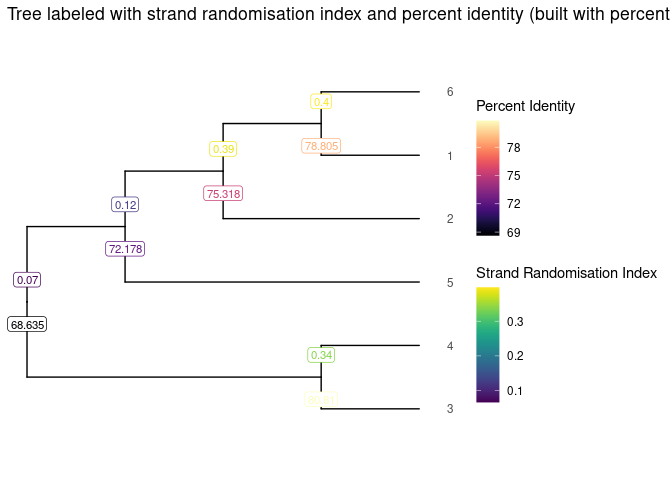
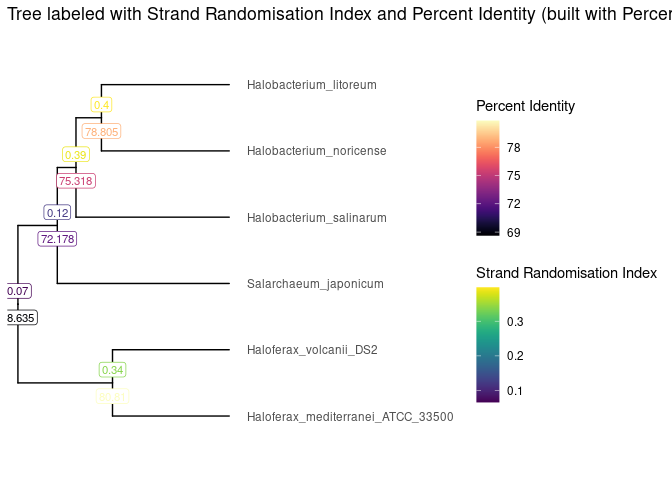
README updates

Changed region(s): [[0.0, 0.1562, 0.625, 0.7188], [0.0312, 0.7188, 0.6875, 0.875], [0.2188, 0.0, 1.0, 0.0625]]

diff --git a/README.md b/README.md
@@ -25,8 +25,7 @@ devtools::install_github("brennern/ScrambledTreeBuilder")
 After performing an All Vs. All genome comparison between dozens of
 species, you may have .yaml files as the output. In order to convert
 these files into a dataframe in R, you may use the `formatStats()`
-function. Extract your .yaml files from their respective directory and
-store the information under the variable `yamlFiles`.
+function. Extract your .yaml files from their respective directory and store the information under the variable `yamlFiles`.
 
 ``` r
 library(ScrambledTreeBuilder)
@@ -56,8 +55,8 @@ tibble and utilize the functions `makeValueTibble()`.
 ``` r
 HClust <- hclust(dist(treeMatrix), method = "complete")
 Tibble <- tidytree::as_tibble(tidytree::as.phylo(HClust))
-tibbleWithValue <- makeValueTibble(Tibble, valueMatrix)
-tibbleWithMultipleValues <- makeMultiValueTibble(Tibble, exDataFrame, colsToSelect = c("index_avg_strandRand", "percent_identity_global"))
+tibbleWithValue <- makeValueTibble(Tibble, valueMatrix, colname = "Strand_Randomisation_Index")
+tibbleWithMultipleValues <- makeValueTibble(tibbleWithValue, treeMatrix, colname = "Percent_Identity")
 ```
 
 Finally, to visualize your phylogenetic tree, you can utilize the
@@ -65,11 +64,11 @@ Finally, to visualize your phylogenetic tree, you can utilize the
 desired variable.
 
 ``` r
-SingleValueTree <- visualizeTree(tibbleWithValue, tibbleWithValue$value)
+SingleValueTree <- visualizeTree(tibbleWithValue, tibbleWithValue$Strand_Randomisation_Index)
 
-SingleValueTree + 
-  ggplot2::ggtitle(paste("Tree built with", valuesToBuildTheTree, "and labelled with", valuesToPlaceOnLabels)) + 
-  viridis::scale_color_viridis(name = valuesToPlaceOnLabels) +
+SingleValueTree +
+  ggplot2::ggtitle(paste("Tree built with Percent Identity and labelled with Strand Randomisation Index scores")) + 
+  viridis::scale_color_viridis(name = "Strand Randomisation Index") +
   ggtree::geom_hilight(node = 8, fill = "lightblue1", alpha = .2, type = "gradient", gradient.direction = 'tr') +
   ggtree::geom_hilight(node = 9, fill = "pink", alpha = .2, type = "gradient", gradient.direction = 'tr')
 ```
@@ -77,15 +76,15 @@ SingleValueTree +
 <img src="man/figures/README-unnamed-chunk-6-1.png" width="100%" />
 
 ``` r
-MultiValueTree <- visualizeTree(tibbleWithMultipleValues, tibbleWithMultipleValues$index_avg_strandRand, ynudge = 0.35)
+MultiValueTree <- visualizeTree(tibbleWithMultipleValues, tibbleWithMultipleValues$Strand_Randomisation_Index, ynudge = 0.2)
 #> Scale for y is already present.
 #> Adding another scale for y, which will replace the existing scale.
 
 MultiValueTree +
-  ggplot2::ggtitle("Tree labeled with strand randomisation index and percent identity (built with percent identity)") +
+  ggplot2::ggtitle("Tree labeled with Strand Randomisation Index and Percent Identity (built with Percent Identity)") +
   viridis::scale_color_viridis(name = "Strand Randomisation Index") +
   ggnewscale::new_scale_colour() +
-  ggtree::geom_label(ggtree::aes(label=round(percent_identity_global, digits = 3), color = percent_identity_global), label.size = 0.25, size = 3, na.rm = TRUE, label.padding = ggtree::unit(0.15, "lines"), nudge_y = -0.35) +
+  ggtree::geom_label(ggtree::aes(label=round(Percent_Identity, digits = 3), color = Percent_Identity), label.size = 0.25, size = 3, na.rm = TRUE, label.padding = ggtree::unit(0.15, "lines"), nudge_y = -0.2) +
   viridis::scale_color_viridis(option = "magma", name = "Percent Identity")
 ```
 
